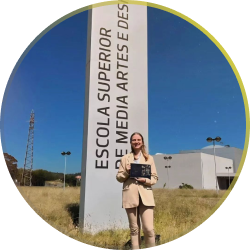
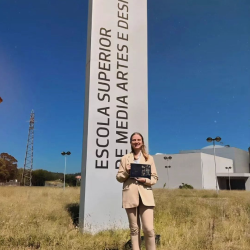
Modal Alumni

Changed region(s): [[0.0, 0.0, 1.0, 1.0], [0.0, 0.532, 0.476, 1.0]]

diff --git a/js/views/indexView.js b/js/views/indexView.js
@@ -1,6 +1,6 @@
 import { init as initProjetos, filtrarProjetosPorEstado } from "../models/ProjectModel.js";
 import { init as initEventos, filtrarEventoPorEstado} from "../models/EventModel.js";
-import { init as initAlumni, filtrarTestemunhoPorEstado } from "../models/AlumniModel.js";
+import { init as initAlumni, filtrarTestemunhoPorEstado, getTestemunhoByName } from "../models/AlumniModel.js";
 
 // Scrollspy bootstrap
 document.addEventListener('DOMContentLoaded', function () {
@@ -260,17 +260,74 @@ function renderAlumni(testemunho) {
 
     testemunhosContainer.innerHTML += 
     `
-        <div class="alumniContainer" id="${testemunho.name}">
+        <div class="card alumniContainer" id="${testemunho.name}">
             <img class="img-fluid imageAlumni" alt="Foto de ${testemunho.name}" src="${testemunho.photo}">
-            <div class="alumniDescription">
+            <div class="card-body alumniDescription">
                 <p class="alumniJob">${testemunho.occupation}</p>
                 <p class="alumniCompany">na ${testemunho.company}</p>
-                <p class="alumniName">${testemunho.name} <button type="button" class="btn text-warning fs-1 float-end" data-toggle="modal" data-target="#" style="padding:0;border:0;line-height:0.7;">+</button></p>
+                <p class="alumniName">${testemunho.name} <button type="button" class="btn seeMoreAlumni text-warning fs-1 float-end" data-toggle="modal" data-target="#alumniModal" id="${testemunho.name}" style="padding:0;border:0;line-height:0.7;">+</button></p>
             </div>
         </div>
     `
 }
 
+function showAlumniModal(testemunhoName) {
+    
+    const testemunho = getTestemunhoByName(testemunhoName);
+    let modalBody = document.querySelector("#modalAlumniBody");
+
+    modalBody.innerHTML = 
+    `
+        <div class="row">
+            
+            <div class="col-md-3">
+                <div class="card alumniContainer" id="${testemunho.name}">
+                    <img class="img-fluid imageAlumni" alt="Foto de ${testemunho.name}" src="${testemunho.photo}">
+                    <div class="card-body alumniDescription">
+                        <p class="alumniJob">${testemunho.occupation}</p>
+                        <p class="alumniCompany">na ${testemunho.company}</p>
+                        <p class="alumniName">${testemunho.name}<a href="${testemunho.link}" target="_blank"><i class="fa-brands fa-linkedin-in float-end" id="linkedinIcon"></i></a></p>
+                    </div>
+                </div>
+            </div>
+            
+            <div class="col d-flex">
+                <span id="msgModalAlumni">${testemunho.msgAlumni}</span>
+
+                ${testemunho.awards ? `<p id="awardsModalAlumni"><i class="fa-solid fa-medal" style="color:var(--color-yellow);"></i>${testemunho.awards}</p>` : ""}
+
+            </div>
+
+        </div>
+    
+
+    `
+    
+    $("#alumniModal").modal("show");
+
+    // Esconder modal ao clicar no -
+    document.querySelector("#seeLessAlumni").addEventListener("click", hideModal);
+
+}
+
+function hideModal() {
+    $("#alumniModal").modal("hide");
+}
+
+// Função que adiciona event listeneres ao botão para ver mais
+function seeMoreClick() {
+
+    const seeMoreBtns = document.getElementsByClassName("seeMoreAlumni");
+
+    for (const button of seeMoreBtns) {
+        // button.addEventListener("click",showAlumniModal(button.id));
+        button.addEventListener("click", () => {
+            showAlumniModal(button.id)
+        });
+
+    }
+
+}
 
 // Alumni
 
@@ -283,3 +340,4 @@ initEventos();
 renderEvents();
 initAlumni();
 renderTestemunhos();
+seeMoreClick();

diff --git a/index.html b/index.html
@@ -17,6 +17,9 @@
     <!-- CSS -->
     <link rel="stylesheet" href="./css/style.css">
 
+    <!-- Jquery -->
+    <script src="https://ajax.googleapis.com/ajax/libs/jquery/3.7.1/jquery.min.js"></script>
+
     <!-- Gauge.js -->
     <script src="https://bernii.github.io/gauge.js/dist/gauge.min.js"></script>
 </head>
@@ -131,10 +134,23 @@
 
         <!-- Alumni section -->
         <section id="testemunhos" class="py-5">
+            
+            <!-- Modal Testemunhos -->
+            <div class="modal fade" id="alumniModal" data-bs-keyboard="false" tabindex="-1" aria-labelledby="alumniModal" aria-hidden="true">
+                <div class="modal-dialog modal-dialog-centered modal-xl">
+                    <div class="modal-content modal-background" id="modalAlumniContent">
+                        <div class="modal-body p-0" id="modalAlumniBody">
+                            
+                        </div>
+                        <button type="button" class="btn text-warning fs-1 float-end" data-toggle="modal" data-target="#alumniModal" id="seeLessAlumni" style="padding:0;border:0;line-height:0.7;">-</button>
+                    </div>
+                </div>
+            </div>
+            
             <div class="container">
                 <h2 class="text-start mt-5 mb-2">Testemunhos</h2>
                 <p class="text-start mb-5" id="testemunhosHeader">Descobre a opinião dos alunos que já concluíram a licenciatura</p>
-                <div class="row row-cols-4"  id="testemunhosContainer">
+                <div class="row"  id="testemunhosContainer">
 
                 </div>
             </div>

diff --git a/css/shared/bootstrap.css b/css/shared/bootstrap.css
@@ -303,30 +303,61 @@ button:focus {
 
 /* Alumni section */
 
+#testemunhosContainer {
+  display: flex;
+  justify-content: space-between;
+}
 .alumniContainer {
   text-align: start;
   border: 0;
-  margin: 0;
+  padding: 0;
+  max-width: 250px;
 }
 .alumniDescription {
   margin-top: 2rem;
+  padding: 0;
+  overflow: hidden;
 }
 .alumniDescription p {
   margin: 0 !important;
 }
 .imageAlumni {
+  border: 0.3rem solid;
+  border-image: var(--color-yellowToSolidGray-gradient);
+  box-shadow: 0rem 0.3rem 1.5rem -0.063rem rgba(0, 0, 0, 0.2);
+  /* border-radius: 50%; */
   width: 100%;
 }
-.alumniJob {
-
+#modalAlumniContent {
+  border: 0.15rem solid;
+  border-image: var(--color-yellowToSolidGray-gradient);
+  box-shadow: 0rem 0.3rem 1.5rem -0.063rem rgba(0, 0, 0, 0.2);
 }
-.alumniCompany {
-
+#modalAlumniBody {
+  margin: 2rem;
 }
-.alumniName {
+#msgModalAlumni {
+  line-height: 40px;
 }
-.alumniDescription .btn {
-  
+#awardsModalAlumni {
+  text-align: start;
+  margin: 0;
+  width: 100%;
+  display: flex;
+  align-items: end;
+}
+#alumniModal .card {
+  margin-right: 0;
+}
+#seeLessAlumni {
+  position: absolute;
+  bottom: 0;
+  left: calc(100% - 2rem);
+}
+#linkedinIcon {
+  position: relative;
+  color: var(--color-yellow);
+  margin-top: 5px;
 }
 /* Alumni section */
 

diff --git a/js/views/adminTabs/pills-users.js b/js/views/adminTabs/pills-users.js
@@ -43,7 +43,6 @@ function renderTableUsers(users = []) {
     for (const button of btnsRemove) {
         button.addEventListener("click", () => {
             if(confirm("Queres mesmo remover o utilizador?")) {
-                console.log(button.id);
                 User.removeUser(button.id);
                 renderTableUsers(User.getUsers());
             }
